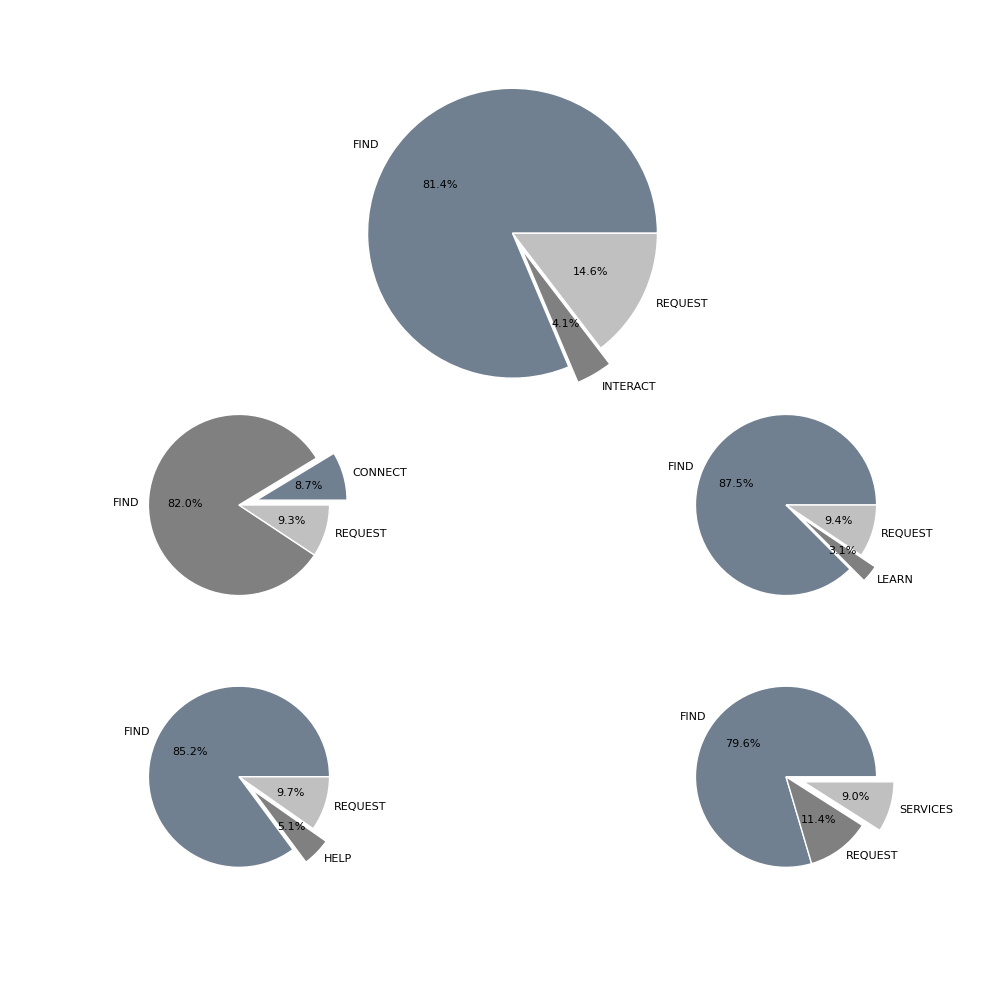
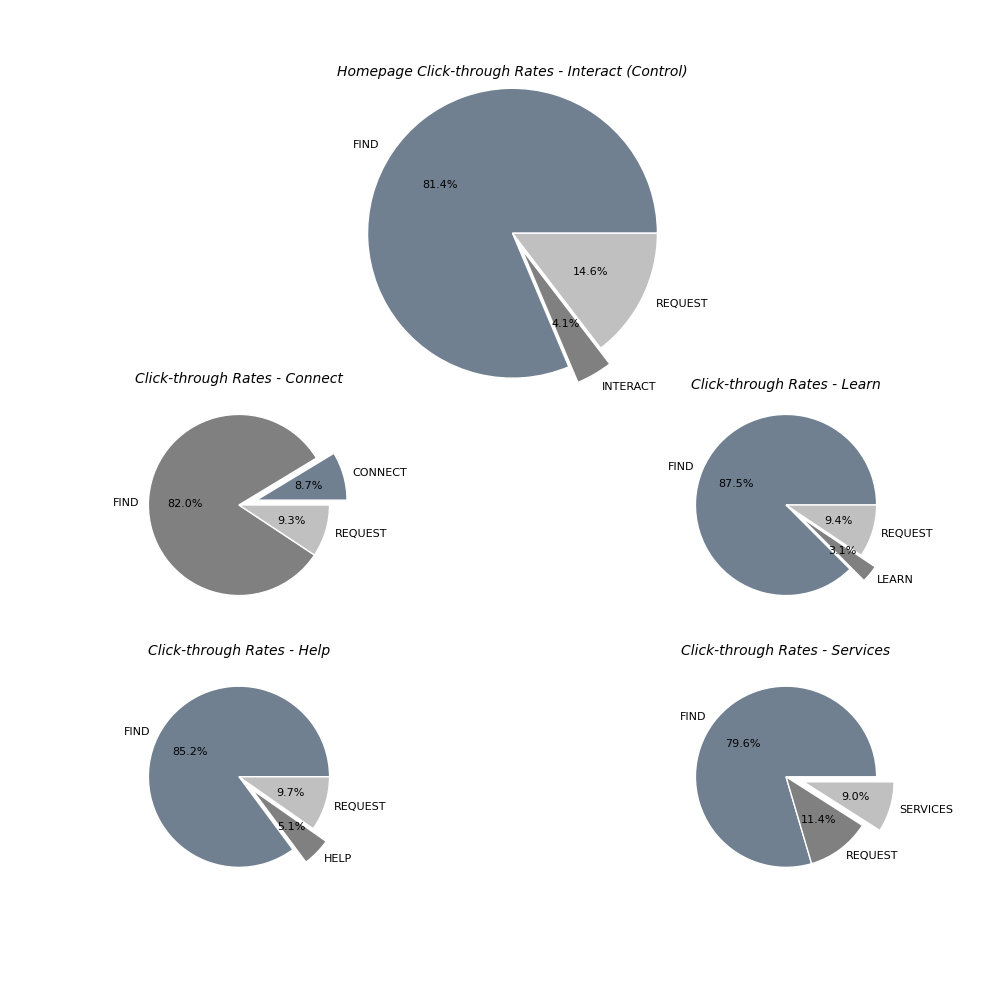
added title on chart

Changed region(s): [[0.341, 0.062, 0.682, 0.093], [0.124, 0.372, 0.341, 0.403], [0.682, 0.372, 0.868, 0.403]]

diff --git a/ab-test.py b/ab-test.py
@@ -68,18 +68,24 @@ df_services.head()
 # Pie visualization of distribution of click in each version --> visualization/pie_charts.png
 colors = ["slategray", "gray", "silver"]
 fig, ax = plt.subplots(3, 3, figsize=(10, 10))
+ax[0, 1].set_title("Homepage Click-through Rates - Interact (Control)", pad=32, fontstyle='italic',
+                   fontsize="12").set_fontsize(10)
 ax[0, 1].pie(df_interact["Click"].values, labels=df_interact["Name"].values, autopct='%.1f%%',
              wedgeprops={'edgecolor': "white", 'linewidth': 1}, textprops={'fontsize': 8}, radius=1.6,
              colors=colors, explode=(0, 0.2, 0))
+ax[1, 0].set_title("Click-through Rates - Connect", fontstyle='italic').set_fontsize(10)
 ax[1, 0].pie(df_connect["Click"].values, labels=df_connect["Name"].values, autopct='%.1f%%',
              wedgeprops={'edgecolor': "white", 'linewidth': 1}, textprops={'fontsize': 8}, radius=1,
              colors=colors, explode=(0.2, 0, 0))
+ax[1, 2].set_title("Click-through Rates - Learn", pad=-16, fontstyle='italic').set_fontsize(10)
 ax[1, 2].pie(df_learn["Click"].values, labels=df_learn["Name"].values, autopct='%.1f%%',
              wedgeprops={'edgecolor': "white", 'linewidth': 1}, textprops={'fontsize': 8}, radius=1,
              colors=colors, explode=(0, 0.2, 0))
+ax[2, 0].set_title("Click-through Rates - Help", fontstyle='italic').set_fontsize(10)
 ax[2, 0].pie(df_help["Click"].values, labels=df_help["Name"].values, autopct='%.1f%%',
              wedgeprops={'edgecolor': "white", 'linewidth': 1}, textprops={'fontsize': 8}, radius=1,
              colors=colors, explode=(0, 0.2, 0))
+ax[2, 2].set_title("Click-through Rates - Services", fontstyle='italic').set_fontsize(10)
 ax[2, 2].pie(df_services["Click"].values, labels=df_services["Name"].values, autopct='%.1f%%',
              wedgeprops={'edgecolor': "white", 'linewidth': 1}, textprops={'fontsize': 8}, radius=1,
              colors=colors, explode=(0, 0, 0.2))
